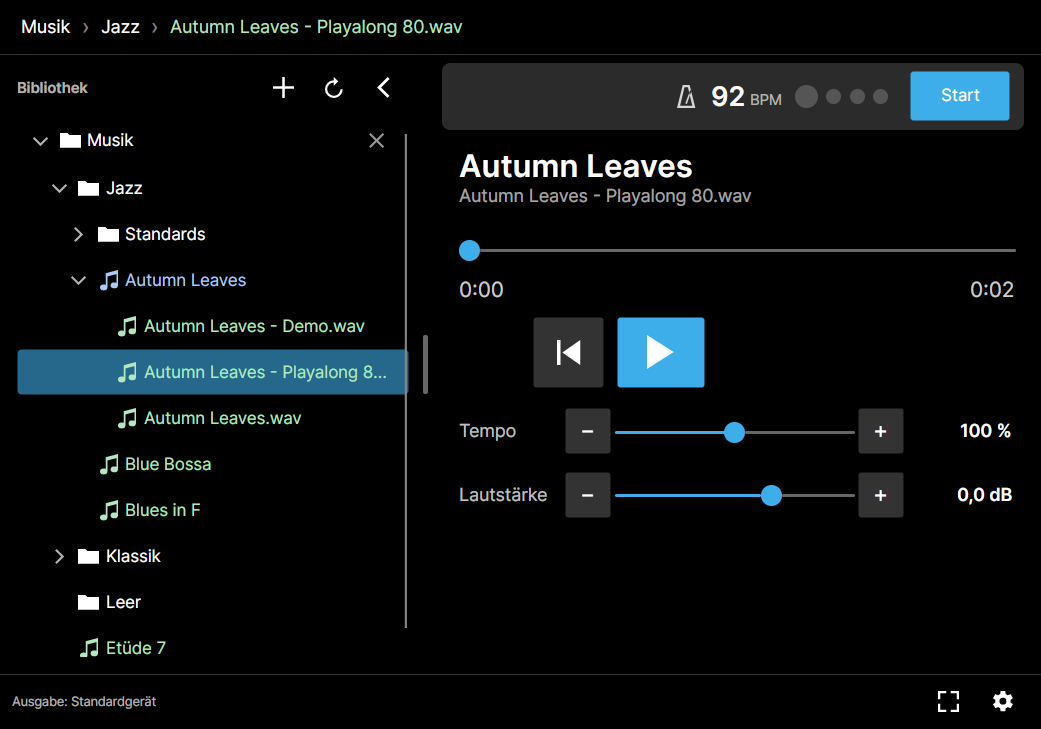
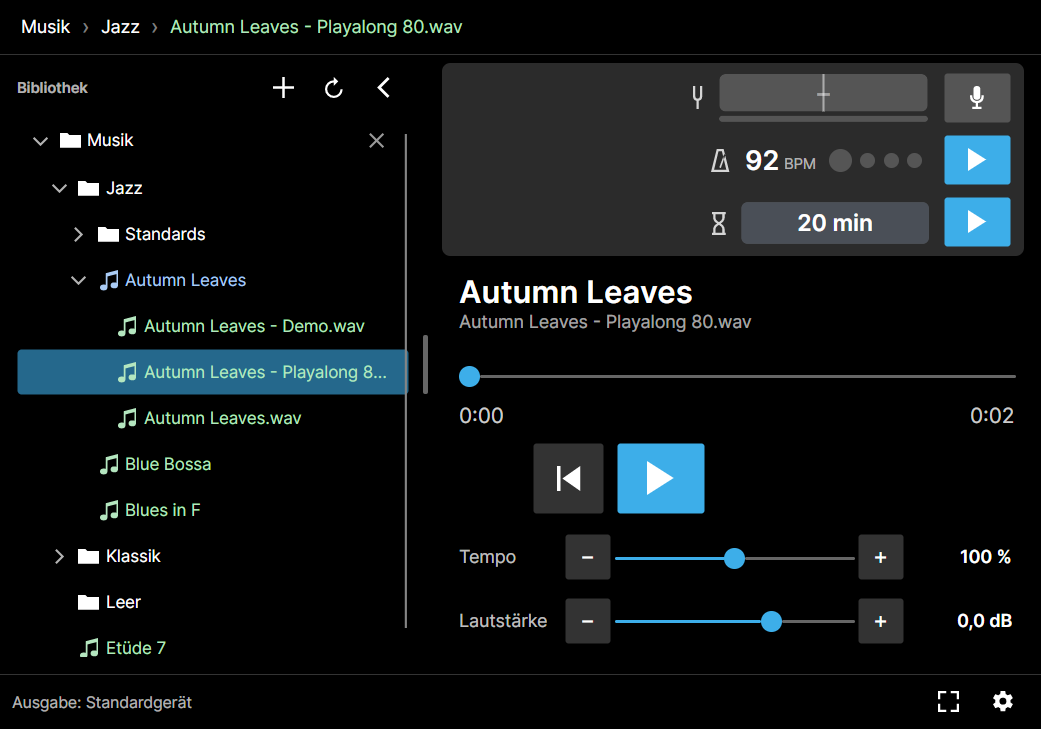
Describe rc.5 with tuner and practice timer on the website
New screenshots in English and German show the tuner, metronome and
timer above the player. The feature lists get the tuner and the practice
timer, the shortcuts line names all tools, the hero, description and
README mention tuning and timing, and the data section says that the
microphone is only used by the tuner while it is on.

diff --git a/site/de/index.html b/site/de/index.html
@@ -4,7 +4,7 @@
   <meta charset="utf-8">
   <meta name="viewport" content="width=device-width, initial-scale=1">
   <title>just practise – üben mit deinen eigenen Aufnahmen</title>
-  <meta name="description" content="Eine kostenlose Desktop-App für Musikerinnen und Musiker: Musikordner durchsuchen, das Tempo ändern, ohne dass sich die Tonhöhe ändert, und mit dem Metronom üben. Linux und Windows.">
+  <meta name="description" content="Eine kostenlose Desktop-App für Musikerinnen und Musiker: Musikordner durchsuchen, das Tempo ändern, ohne dass sich die Tonhöhe ändert, mit dem Metronom üben, das Instrument stimmen und die Übezeit im Blick behalten. Linux und Windows.">
   <link rel="icon" href="../images/favicon.png">
   <link rel="stylesheet" href="../style.css">
   <link rel="alternate" hreflang="en" href="../">
@@ -25,7 +25,7 @@
     <div class="wrap">
       <div class="hero">
         <h1>Üben mit deinen eigenen Aufnahmen</h1>
-        <p>Eine kostenlose Desktop-App für Musikerinnen und Musiker: Musikordner öffnen, ein Stück langsamer oder schneller abspielen, ohne dass sich die Tonhöhe ändert, und mit dem Metronom im Takt bleiben. Funktioniert offline, ohne Konto und ohne Werbung.</p>
+        <p>Eine kostenlose Desktop-App für Musikerinnen und Musiker: Musikordner öffnen, ein Stück langsamer oder schneller abspielen, ohne dass sich die Tonhöhe ändert, mit dem Metronom im Takt bleiben, das Instrument stimmen und die Übezeit im Blick behalten. Funktioniert offline, ohne Konto und ohne Werbung.</p>
       </div>
 
       <div class="downloads">
@@ -42,7 +42,7 @@
       <p class="download-note">Version {{version}} für 64-Bit-PCs (x64) · <a href="install.html">So installierst du sie</a> · <a href="https://github.com/beckaxel/just-practise/releases">Alle Versionen und Prüfsummen</a></p>
 
       <div class="screenshot">
-        <img src="../images/screenshot-de.png" alt="just practise mit der Bibliothek links sowie Metronom und Player rechts" width="1041" height="729">
+        <img src="../images/screenshot-de.png" alt="just practise mit der Bibliothek links sowie Stimmgerät, Metronom und Übetimer über dem Player rechts" width="1041" height="729">
       </div>
 
       <section>
@@ -72,11 +72,29 @@
             </ul>
           </div>
           <div class="feature">
+            <h3>Stimmgerät</h3>
+            <ul>
+              <li>Chromatisch: Ein Balken zeigt, ob du zu hoch oder zu tief bist, grün, wenn der Ton sauber ist</li>
+              <li>Stimmung C, B, E♭, F und A, Kammerton 415 bis 466 Hz</li>
+              <li>Ein schmaler Balken zeigt den Pegel</li>
+              <li>Das Mikrofon ist nur offen, solange das Stimmgerät eingeschaltet ist</li>
+            </ul>
+          </div>
+          <div class="feature">
+            <h3>Übetimer</h3>
+            <ul>
+              <li>1 bis 60 Minuten, Voreinstellungen von 5 bis 30</li>
+              <li>Leert sich stufenlos wie eine Sanduhr, in ruhigen Farben</li>
+              <li>Macht nie ein Geräusch</li>
+              <li>Lässt sich verlängern oder verkürzen, während er läuft</li>
+            </ul>
+          </div>
+          <div class="feature">
             <h3>Fürs Üben gemacht</h3>
             <ul>
               <li>Große Knöpfe und Schrift, per Touch bedienbar und vom Notenständer aus lesbar</li>
               <li>Vollbild (F11); der Bildschirm bleibt beim Üben an</li>
-              <li>Tastenkürzel für Player und Metronom</li>
+              <li>Tastenkürzel für Player, Metronom, Timer und Stimmgerät</li>
               <li>Deutsch und Englisch</li>
               <li>Sucht nur nach Updates, wenn du es willst</li>
             </ul>

diff --git a/site/index.html b/site/index.html
@@ -4,7 +4,7 @@
   <meta charset="utf-8">
   <meta name="viewport" content="width=device-width, initial-scale=1">
   <title>just practise – practise with your own recordings</title>
-  <meta name="description" content="A free desktop app for musicians: browse your music folders, change the tempo without changing the pitch, and keep time with a metronome. Linux and Windows.">
+  <meta name="description" content="A free desktop app for musicians: browse your music folders, change the tempo without changing the pitch, keep time with a metronome, tune with the tuner and time your practice. Linux and Windows.">
   <link rel="icon" href="images/favicon.png">
   <link rel="stylesheet" href="style.css">
   <link rel="alternate" hreflang="de" href="de/">
@@ -25,7 +25,7 @@
     <div class="wrap">
       <div class="hero">
         <h1>Practise with your own recordings</h1>
-        <p>A free desktop app for musicians: open your music folders, slow a track down or speed it up without changing the pitch, and keep time with a metronome. Works offline, no account, no ads.</p>
+        <p>A free desktop app for musicians: open your music folders, slow a track down or speed it up without changing the pitch, keep time with a metronome, tune your instrument and time your practice. Works offline, no account, no ads.</p>
       </div>
 
       <div class="downloads">
@@ -42,7 +42,7 @@
       <p class="download-note">Version {{version}} for 64-bit PCs (x64) · <a href="install.html">How to install</a> · <a href="https://github.com/beckaxel/just-practise/releases">All versions and checksums</a></p>
 
       <div class="screenshot">
-        <img src="images/screenshot-en.png" alt="just practise with the library on the left, the metronome and the player on the right" width="1041" height="729">
+        <img src="images/screenshot-en.png" alt="just practise with the library on the left, the tuner, metronome and practice timer above the player on the right" width="1041" height="729">
       </div>
 
       <section>
@@ -72,11 +72,29 @@
             </ul>
           </div>
           <div class="feature">
+            <h3>Tuner</h3>
+            <ul>
+              <li>Chromatic: a bar shows if you are sharp or flat, green when you are in tune</li>
+              <li>Transposition C, B♭, E♭, F and A, concert pitch 415 to 466 Hz</li>
+              <li>A thin bar shows the input level</li>
+              <li>The microphone is only open while the tuner is switched on</li>
+            </ul>
+          </div>
+          <div class="feature">
+            <h3>Practice timer</h3>
+            <ul>
+              <li>1 to 60 minutes, presets from 5 to 30</li>
+              <li>Empties smoothly like an hourglass, in calm colors</li>
+              <li>Never makes a sound</li>
+              <li>Lengthen or shorten it while it runs</li>
+            </ul>
+          </div>
+          <div class="feature">
             <h3>Made for practising</h3>
             <ul>
               <li>Large buttons and text, usable by touch and readable from your music stand</li>
               <li>Full screen (F11); the screen stays on while you practise</li>
-              <li>Keyboard shortcuts for the player and the metronome</li>
+              <li>Keyboard shortcuts for the player, the metronome, the timer and the tuner</li>
               <li>English and German</li>
               <li>Looks for updates only when you ask it to</li>
             </ul>

diff --git a/site/de/install.html b/site/de/install.html
@@ -107,7 +107,7 @@
         </table>
       </li>
     </ul>
-    <p>just practise sendet nichts. Ins Internet geht die App nur, wenn du nach Updates suchst.</p>
+    <p>just practise sendet nichts. Ins Internet geht die App nur, wenn du nach Updates suchst. Das Mikrofon nutzt nur das Stimmgerät, solange es eingeschaltet ist; aufgenommen oder gespeichert wird nichts.</p>
 
     <h2 id="entfernen">Deinstallieren</h2>
     <ul>

diff --git a/site/install.html b/site/install.html
@@ -107,7 +107,7 @@
         </table>
       </li>
     </ul>
-    <p>just practise does not send anything anywhere. It only goes online when you check for updates.</p>
+    <p>just practise does not send anything anywhere. It only goes online when you check for updates. The microphone is only used by the tuner while it is switched on; nothing is recorded or stored.</p>
 
     <h2 id="uninstall">Uninstall</h2>
     <ul>

diff --git a/README.md b/README.md
@@ -1,6 +1,6 @@
 # just practise
 
-A desktop app that helps musicians practise with their own recordings: browse your music folders, play tracks at 50–150 % tempo without changing the pitch, and keep time with a metronome. Free and open source, offline, no account, no ads.
+A desktop app that helps musicians practise with their own recordings: browse your music folders, play tracks at 50–150 % tempo without changing the pitch, keep time with a metronome, tune your instrument and time your practice. Free and open source, offline, no account, no ads.
 
 **Website:** https://beckaxel.github.io/just-practise/
 
